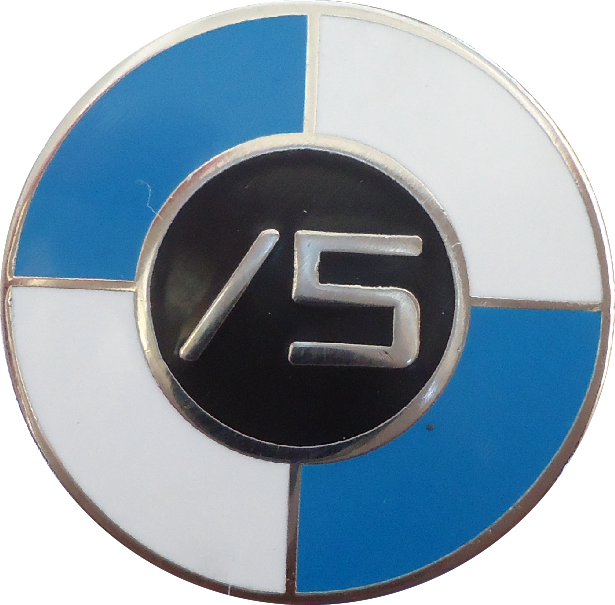
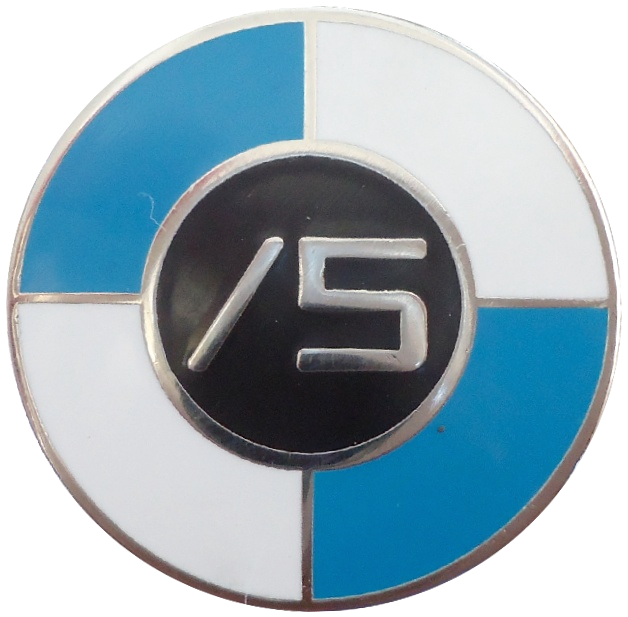
updated about pin / minor content

Changed region(s): [[0.0, 0.0, 1.0, 1.0]]

diff --git a/public/about/index.html b/public/about/index.html
@@ -41,14 +41,15 @@
 
 	<div class="prose">
 
-	  <div class="span3" >
-	    <img src = "./5united-pin-s.jpg" alt="Pin by Scott" class="img-circle" />
+	  <div class="span4" >
+	    <img src = "./5united-pin.png" alt="Pin by Scott" class="img-circle" />
+
 	    <div class="caption">Pin by Scott</div>
 	  </div>
 
-	  <div class="span9">
-
-	    <p>5 United is a club of classic BMW motorcycle enthusiasts. We ride, repair and restore the motorcycles built from 1970 - 1973 including the R75/5, R60/5 and R50/5.  5 United holds BMW Motorcycle Owners of America Charter #324 and BMW Riders Association Charter #324.</p>
+	  <div class="span7 offset1">
+	    
+	    <p><b>5 United</b> is a club of classic BMW motorcycle enthusiasts. We ride, repair and restore the motorcycles built from 1970 - 1973 including the R75/5, R60/5 and R50/5.  <b>5 United</b> holds BMW Motorcycle Owners of America Charter #324 and BMW Riders Association Charter #324.</p>
 
 	    <p>Our club centers around an e-mail list with mostly technical discussion, but riders get together for riding, wrenching and having a good time. Founded in 1995, we now have over 2000 members on six continents and at least 25 nations.</p>
 
@@ -56,7 +57,7 @@
 	      was originally started in 1995 (5united.net) and managed by Paul Sotrop and then Dave
 	      Anderson though 2009. Special thanks goes to Paul and Dave for all of their
 	      efforts! Currently this site is managed by the following cast of
-	      characters:</p>
+	      characters</p>
 
 	    <ul>
 	      <li>Eric Miller, <strong>em at potlach dot org</strong>, 1972 R75/5 'die hexe'</li>
@@ -65,7 +66,7 @@
 
 	    <p>on a volunteer basis. We work for beer, wrenching advise and accolades (pretty much in that order).</p>
 
-            <p>Since 5 United was started many excellent /5 sites have
+            <p>Since <b>5 United</b> was started many excellent /5 sites have
  disappeared from the Internet.  Groups like the Internet Archive try
  their best to archive the contents of the internet, but they don't
  always succeed and valuable information is lost forever. This web
@@ -80,9 +81,9 @@
 		collaborative, cost-effective and efficient way to
 		help manage and preserve this data. If you'd like
 		to help maintain this site, or willing to donate
-		existing /5 web resources with a goal of
-		long term preservation, please send an email
-		to <strong>contact at 5united dot org</strong>.</p>
+	      existing /5 web resources with a goal of
+	      long term preservation, please send an email
+	      to <strong>contact at 5united dot org</strong>.</p>
 
 	  </div>
 

diff --git a/public/css/style.css b/public/css/style.css
@@ -79,7 +79,9 @@
        margin: 0 auto !important;
        float: none !important;
        text-align: center;
-      font-size: 80%;
+       padding-top: 10px;
+       font-weight: bold;
+      font-size: 90%;
       }
 
       footer {
